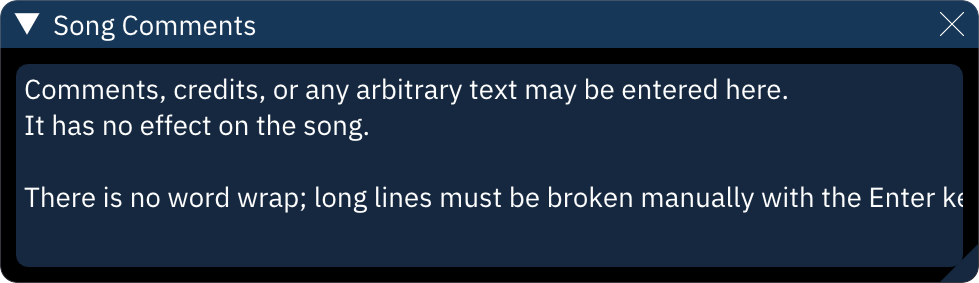
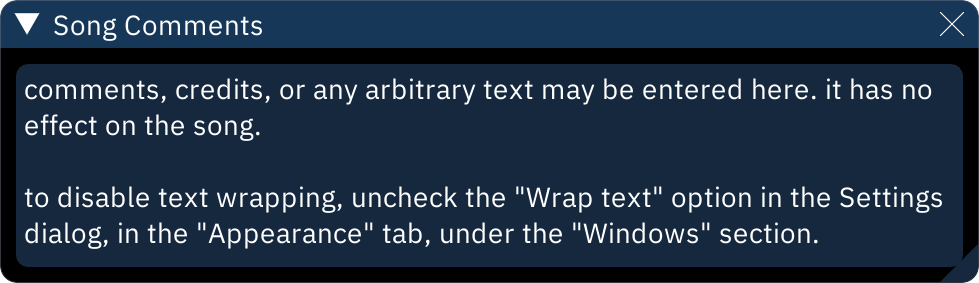
Updated song comments docs.
The line about the "Wrap text" option seemed important to add, in part to bring attention to the difference from original Furnace behavior.

diff --git a/doc/8-advanced/comments.md b/doc/8-advanced/comments.md
@@ -3,3 +3,5 @@
 ![comments dialog](comments.png)
 
 comments, credits, or any arbitrary text may be entered here. it has no effect on the song.
+
+to disable text wrapping, uncheck the "Wrap text" option in the Settings dialog, in the "Appearance" tab, under the "Windows" section.
